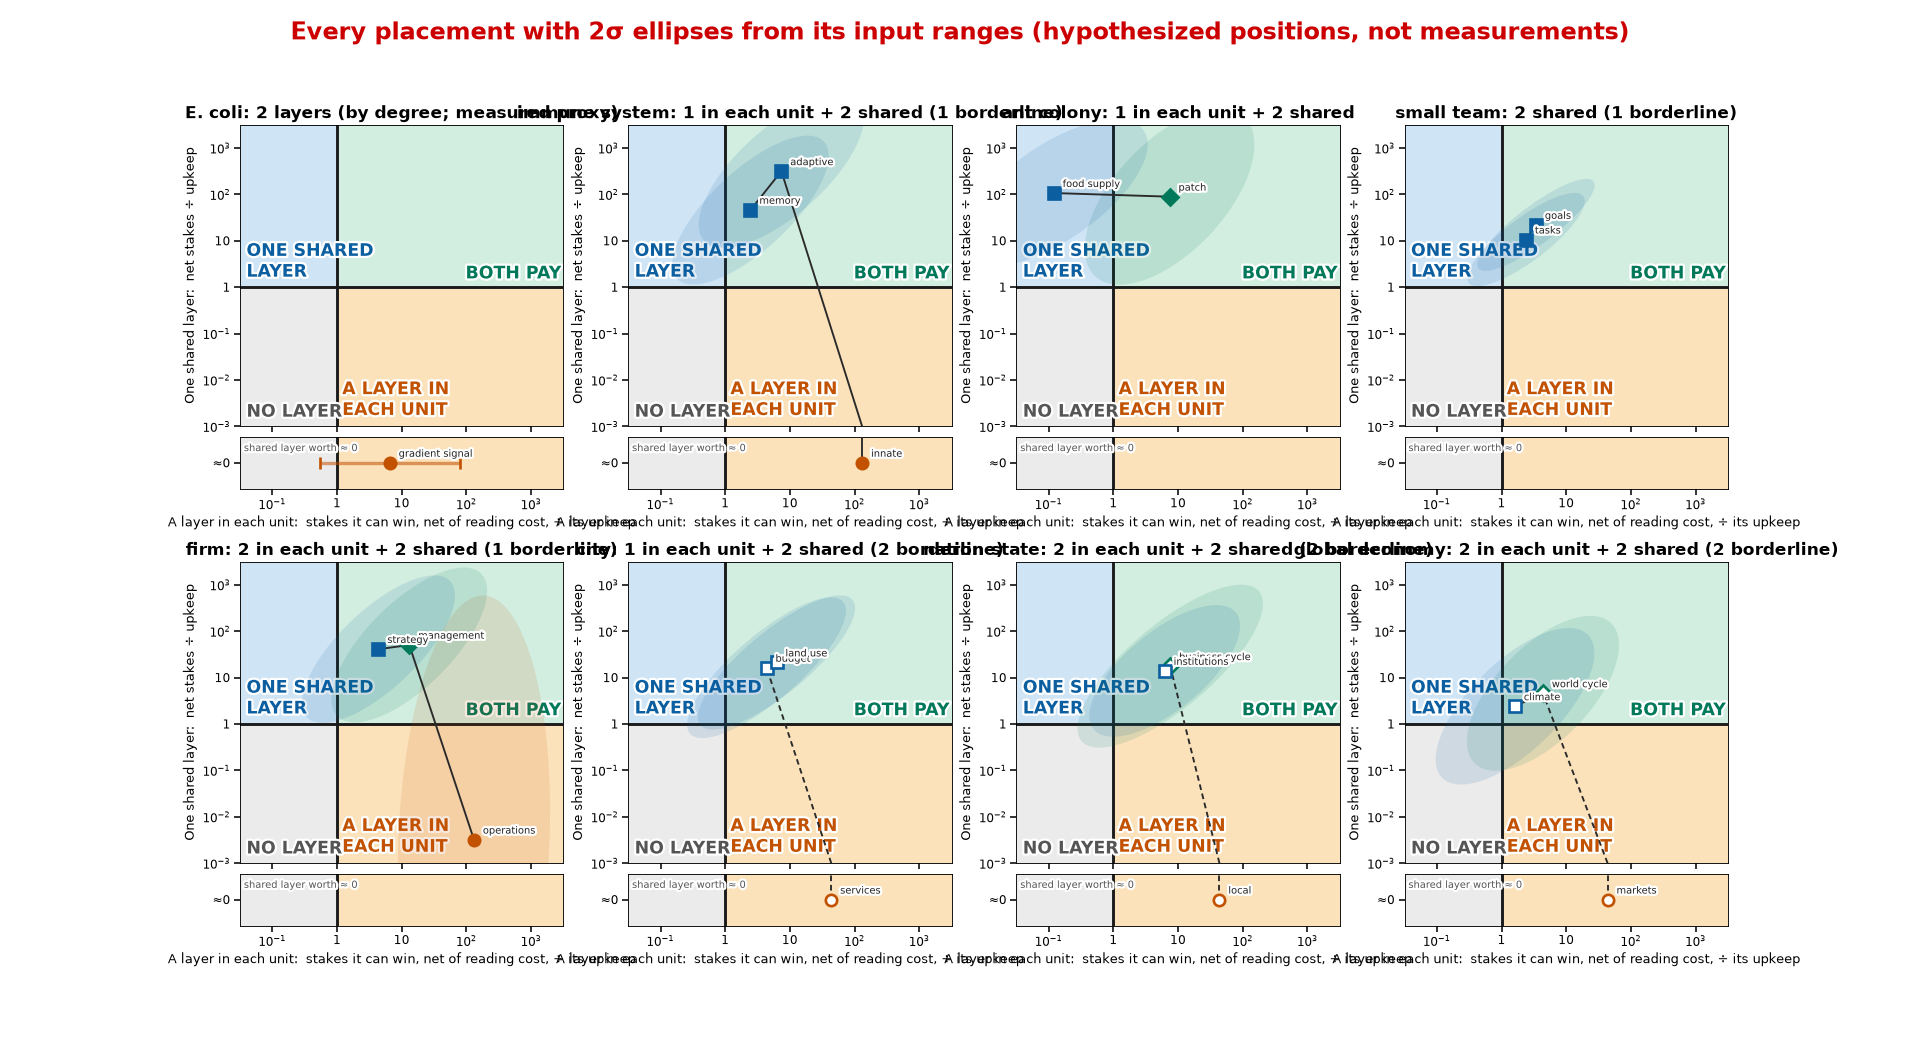
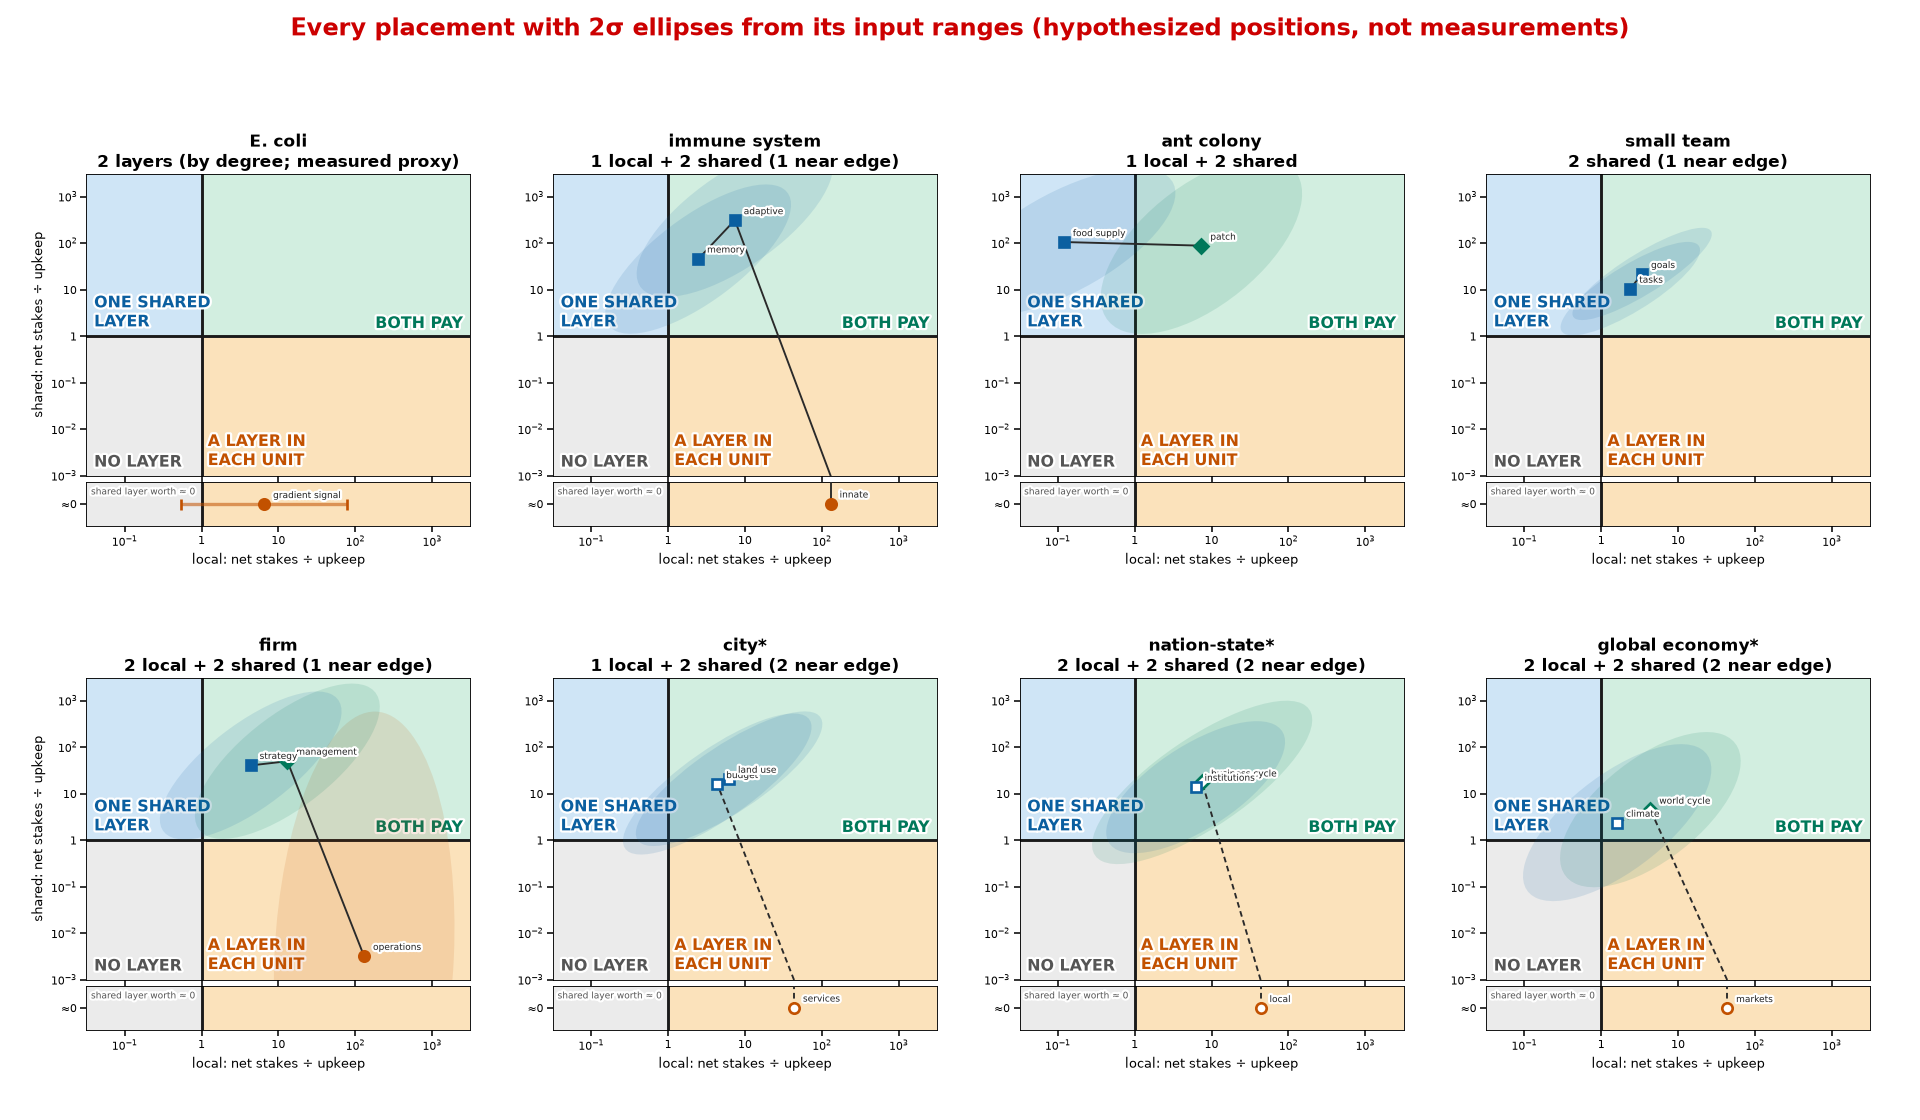
face_all.png: readable small multiples

diff --git a/figures/face.py b/figures/face.py
@@ -164,14 +164,15 @@ def square():
     fig.savefig(os.path.join(HERE, 'face_square.png'), dpi=100); plt.close(fig)
 
 def all_systems():
-    fig, axs = plt.subplots(2, 4, figsize=(24, 13), dpi=80); fs = 15
+    fig = plt.figure(figsize=(24, 14), dpi=80); fs = 11
     for k, name in enumerate(SYSTEMS):
-        ax = axs.flat[k]; pos = ax.get_position(); ax.set_position([pos.x0, pos.y0 + 0.06, pos.width, pos.height - 0.06])
-        st = fig.add_axes([pos.x0, pos.y0, pos.width, 0.05])
+        r, c = divmod(k, 4); x0 = 0.045 + c * 0.243; y0 = 0.53 - r * 0.45
+        st = fig.add_axes([x0, y0, 0.2, 0.04]); ax = fig.add_axes([x0, y0 + 0.045, 0.2, 0.27])
         lab = {(name, d['lab']): (8, 8) for _, _, d in comps(name)}
-        draw_map(ax, st, (-1.5, 3.5, -3.0, 3.5), fs * 0.8, [name], lab, ell_sigma=2.0, ell_alpha=0.12)
-        ax.set_title(name + ': ' + reading(name), fontsize=fs, weight='bold')
-    fig.suptitle('Every placement with 2\u03c3 ellipses from its input ranges (hypothesized positions, not measurements)', fontsize=22, weight='bold', color='#cc0000')
+        draw_map(ax, st, (-1.5, 3.5, -3.0, 3.5), fs, [name], lab, ell_sigma=2.0, ell_alpha=0.12)
+        st.set_xlabel('local: net stakes \u00f7 upkeep', fontsize=12); ax.set_ylabel('shared: net stakes \u00f7 upkeep' if c == 0 else '', fontsize=12)
+        ax.set_title(name + ('' if comps(name)[0][2]['strong'] else '*') + '\n' + reading(name, short=True), fontsize=15, weight='bold')
+    fig.suptitle('Every placement with 2\u03c3 ellipses from its input ranges (hypothesized positions, not measurements)', fontsize=22, weight='bold', color='#cc0000', y=0.985)
     fig.savefig(os.path.join(HERE, 'face_all.png'), dpi=80); plt.close(fig)
 
 if __name__ == '__main__':
